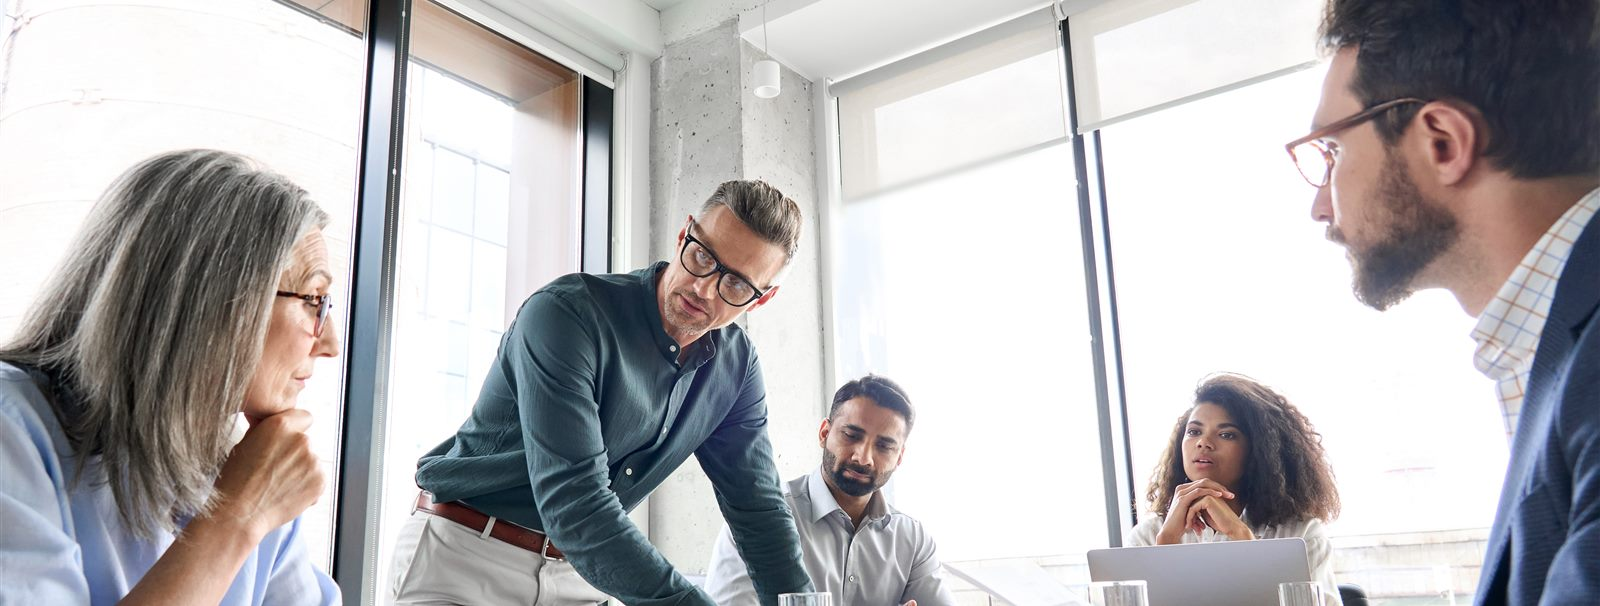
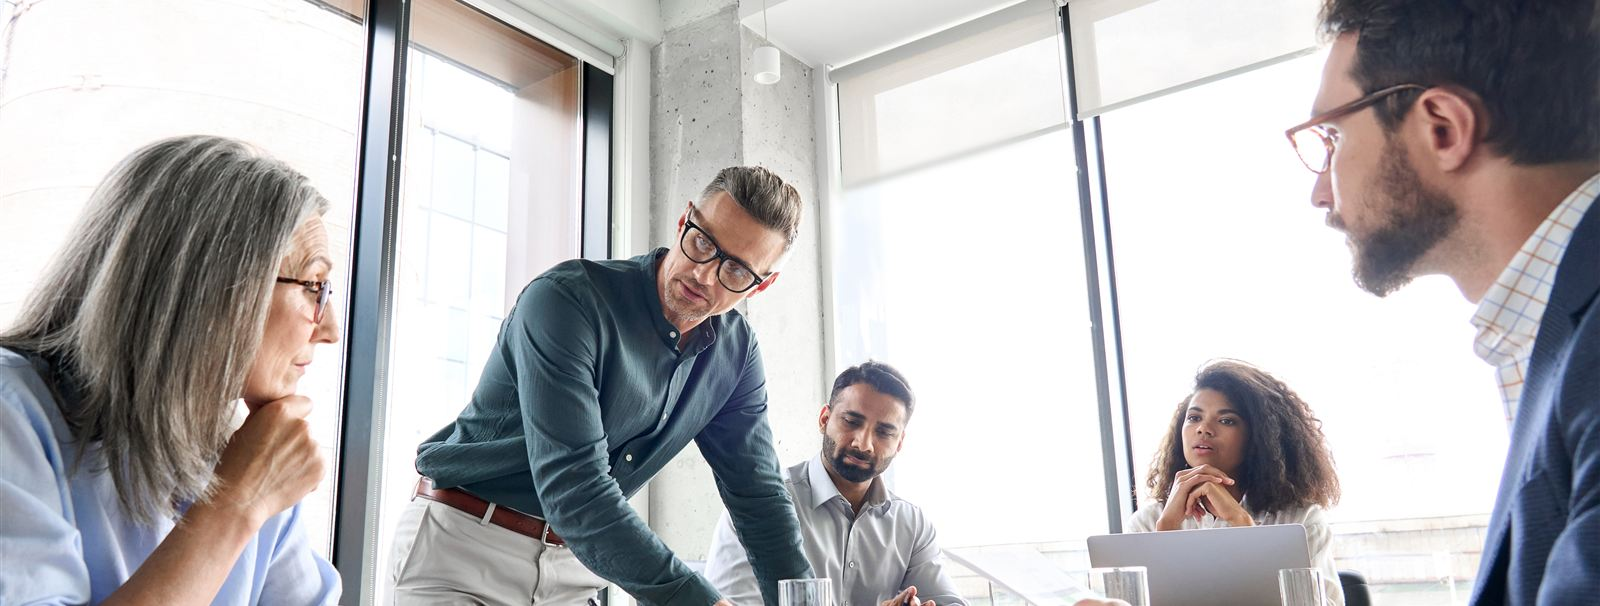
Drop Consulting column from success stories
Remove the Consulting column, bind small labels to the note type role and swap the chapter photo.

Changed region(s): [[0.0, 0.0, 1.0, 1.0], [0.0, 0.0, 0.0312, 0.0594], [0.2812, 0.2376, 0.3125, 0.2673]]

diff --git a/Slides/topics/success-stories/styles.css b/Slides/topics/success-stories/styles.css
@@ -125,7 +125,7 @@
 
 .topic-success-stories .success-project-map code {
   --text-role: code;
-  --text-size: 12px;
+  --text-size: var(--type-note);
   --text-leading: 1.35;
   --text-font: 'IBM Plex Mono', monospace;
   color: var(--ink);
@@ -230,8 +230,8 @@
 
 .topic-success-stories .success-overview-grid {
   display: grid;
-  grid-template-columns: repeat(4, minmax(0, 1fr));
-  gap: 20px;
+  grid-template-columns: repeat(3, minmax(0, 1fr));
+  gap: 32px;
   margin-top: 30px;
 }
 

diff --git a/Slides/topics/success-stories.md b/Slides/topics/success-stories.md
@@ -340,7 +340,7 @@ import './success-stories/styles.css'
 
 # AI už dnes přináší hodnotu
 
-<div class="success-overview-grid" aria-label="Čtyři příklady přínosu AI">
+<div class="success-overview-grid" aria-label="Tři příklady přínosu AI">
 	<section>
 		<h2>Quality Check</h2>
 		<div class="success-overview-block">
@@ -389,29 +389,13 @@ import './success-stories/styles.css'
 		</div>
 		<p class="success-overview-proof">Konverze téměř okamžitě</p>
 	</section>
-	<section>
-		<h2>Consulting</h2>
-		<div class="success-overview-block">
-			<span class="success-label">Výzva</span>
-			<p>Zákazníkům často chybí AI zkušenosti; vyčlenění vlastních lidí je nákladné. Potřebují škálovat vývoj a uvolnit R&amp;D od výroby.</p>
-		</div>
-		<div class="success-overview-block">
-			<span class="success-label">Co nabízí B&amp;R</span>
-			<p>Hodinové konzultace, které zákazníky uvedou do nových AI workflow a pomohou jim je zavést.</p>
-		</div>
-		<div class="success-overview-block">
-			<span class="success-label">Výsledek</span>
-			<p>Rychlejší zákaznické workflow, bližší spolupráce a přímá zpětná vazba.</p>
-		</div>
-		<p class="success-overview-proof">Rychlejší zákaznické workflow</p>
-	</section>
 </div>
 
 <!--
-*Záměr a čas: 1:15. Shrnutí čtyř různých způsobů, jak AI pomáhá ve výrobě, analýze, migraci i zákaznickém poradenství.*
-*Počáteční stav: titulek a všechny čtyři příběhy jsou viditelné; slide nemá klikací odhalení ani interaktivní prvky.*
+*Záměr a čas: 1:15. Shrnutí tří různých způsobů, jak AI pomáhá ve výrobě, analýze a migraci.*
+*Počáteční stav: titulek a všechny tři příběhy jsou viditelné; slide nemá klikací odhalení ani interaktivní prvky.*
 
-Quality Check ukazuje odhalení chyby Teach/Compare, která vedla ke zmetkovitosti. Wireshark Analysis zkrátil hledání příčiny z dnů na minuty. AS4 → AS6 Conversion Tool převádí roztříštěné znalosti do opakovatelného nástroje. Consulting pomáhá zákazníkům začít s AI workflow bez nutnosti vyčlenit vlastní tým.
+Quality Check ukazuje odhalení chyby Teach/Compare, která vedla ke zmetkovitosti. Wireshark Analysis zkrátil hledání příčiny z dnů na minuty. AS4 → AS6 Conversion Tool převádí roztříštěné znalosti do opakovatelného nástroje.
 
-*Konečný stav: stejný jako počáteční; všechny čtyři příklady zůstávají viditelné.*
+*Konečný stav: stejný jako počáteční; všechny tři příklady zůstávají viditelné.*
 -->
